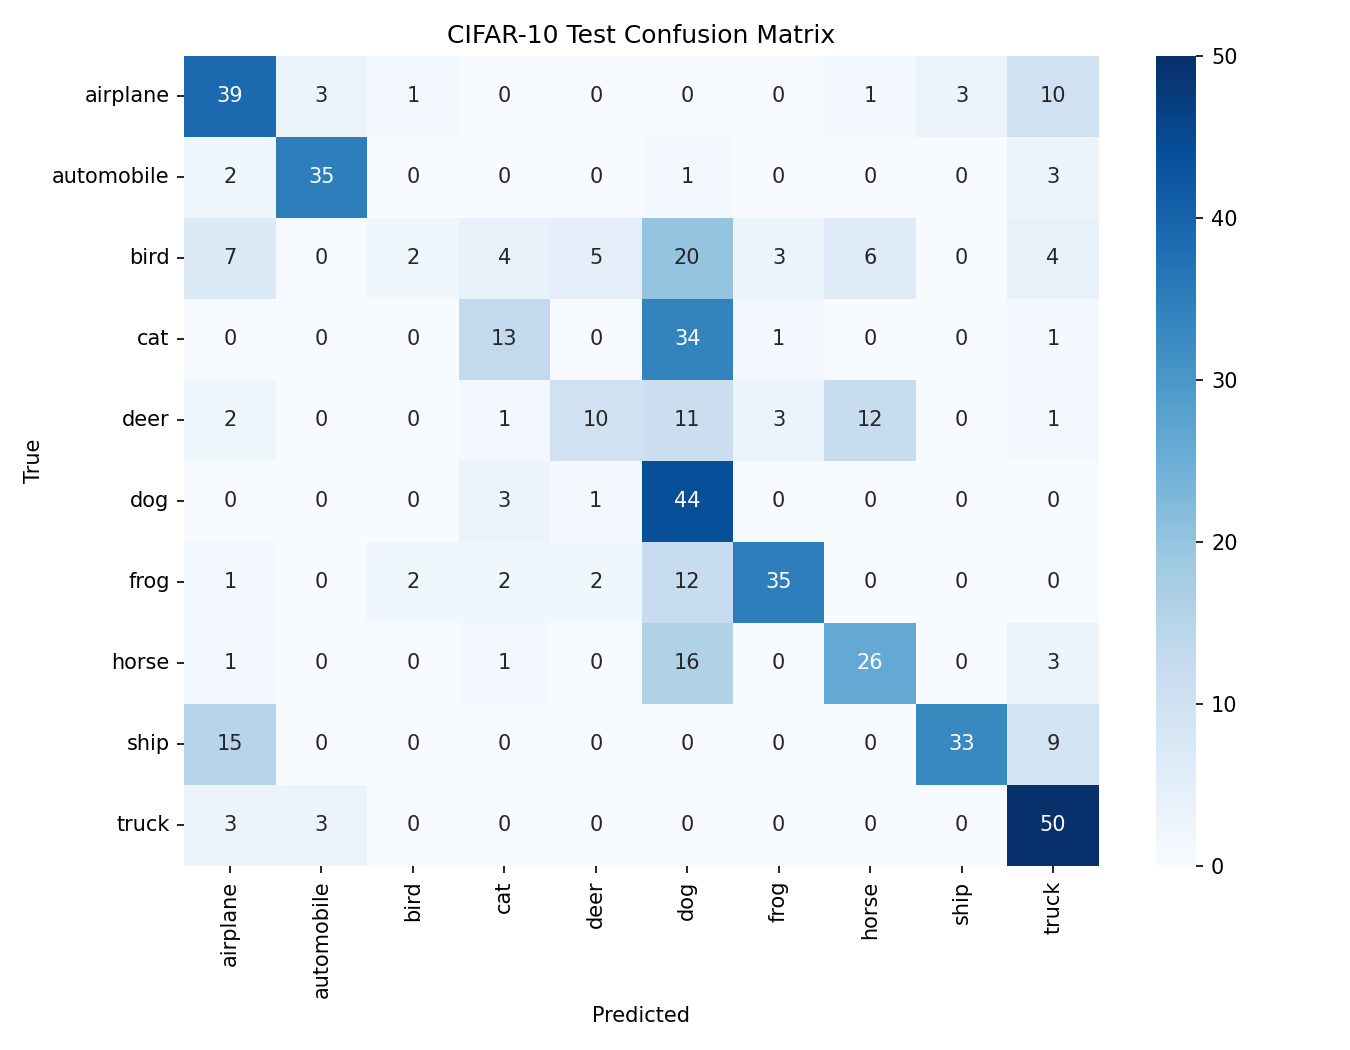
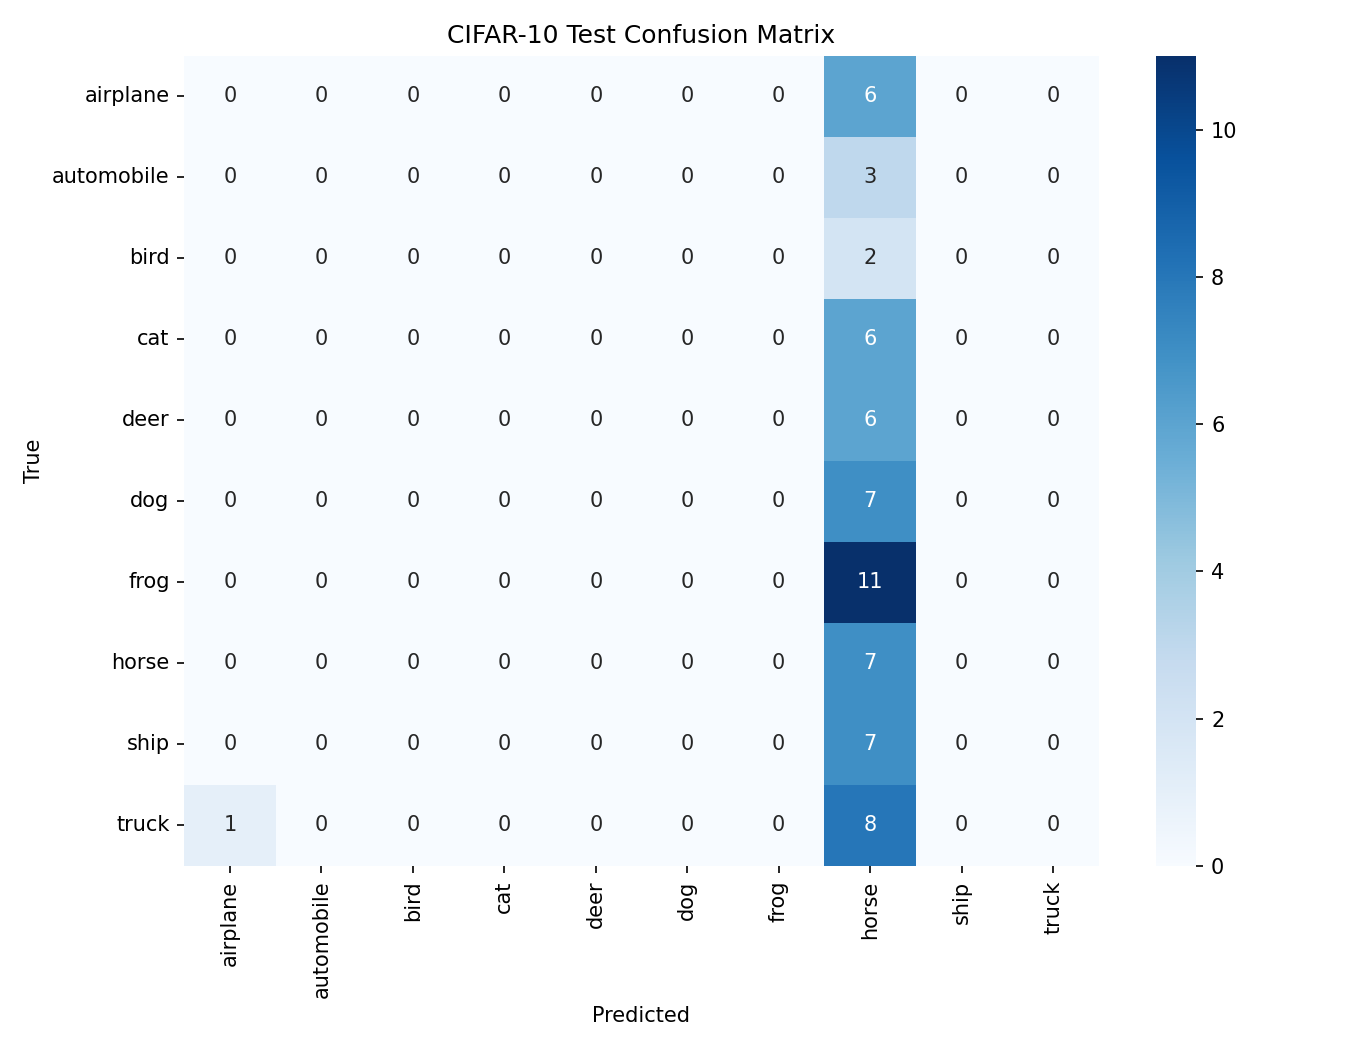
changed out resnet50 to resnet18 for lighter inference on hugging face spaces

diff --git a/src/train.py b/src/train.py
@@ -1,4 +1,6 @@
-# src/train.py
+import sys, os
+sys.path.append(os.path.abspath(os.path.join(os.path.dirname(__file__), '..')))
+
 import torch
 import torch.nn as nn
 import torch.optim as optim
@@ -6,7 +8,7 @@ from torch.utils.data import random_split, DataLoader, Subset
 import torchvision
 from torchvision import models, transforms
 from tqdm import tqdm
-from src.model import get_resnet50_model
+from src.model import get_resnet18_model
 from pathlib import Path
 from multiprocessing import freeze_support
 from sklearn.metrics import classification_report, confusion_matrix
@@ -23,7 +25,7 @@ CLASS_NAMES = [
     "airplane", "automobile", "bird", "cat", "deer",
     "dog", "frog", "horse", "ship", "truck"
 ]
-DEFAULT_MODEL_PATH = Path("models") / "cifar-10-resnet50.pth"
+DEFAULT_MODEL_PATH = Path("models") / "cifar-10-resnet18.pth"
 DEFAULT_ASSETS_DIR = Path("assets")
 
 
@@ -66,15 +68,14 @@ def evaluate(model, dataloader, device):
 # TRAINING FUNCTION
 # -----------------------------------------------------------------------------#
 def train_model(
-    epochs: int = 20,
-    patience: int = 3,
+    epochs: int = 30,
+    patience: int = 5,
     fast_mode: bool = False,
     output_dir: str | Path = ".",
 ):
     """
     Train CIFAR-10 model.
-    - full mode: trains full ResNet50 with augmentations
-    - fast_mode: lightweight ResNet18 subset for CI/CD
+    - full mode: trains full ResNet18 with augmentations
     """
     set_seed(42)
     output_dir = Path(output_dir)
@@ -116,7 +117,7 @@ def train_model(
         patience = 1
         device = "cpu"  # CI usually has no GPU
 
-        model = get_resnet50_model(num_classes=10).to(device)
+        model = get_resnet18_model(num_classes=10).to(device)
 
 
     # -----------------------------#
@@ -153,7 +154,7 @@ def train_model(
         valloader = DataLoader(valset, batch_size=32, shuffle=False, num_workers=8)
         testloader = DataLoader(testset, batch_size=32, shuffle=False, num_workers=8)
 
-        model = get_resnet50_model(num_classes=10).to(device)
+        model = get_resnet18_model(num_classes=10).to(device)
 
     # -----------------------------#
     # OPTIMIZER & TRAINING
@@ -192,7 +193,7 @@ def train_model(
         if val_loss < best_val_loss:
             best_val_loss = val_loss
             patience_counter = 0
-            torch.save(model.state_dict(), model_dir / "cifar_10_resnet50.pth")
+            torch.save(model.state_dict(), model_dir / "cifar_10_resnet18.pth")
         else:
             patience_counter += 1
             if patience_counter >= patience:
@@ -202,7 +203,7 @@ def train_model(
     # -----------------------------#
     # FINAL EVALUATION
     # -----------------------------#
-    model.load_state_dict(torch.load(model_dir / "cifar_10_resnet50.pth", map_location=device))
+    model.load_state_dict(torch.load(model_dir / "cifar_10_resnet18.pth", map_location=device))
     _, test_acc, preds, labels = evaluate(model, testloader, device)
     print(f"\nFinal Test Accuracy: {test_acc*100:.2f}%")
 

diff --git a/api/model_serving.py b/api/model_serving.py
@@ -1,16 +1,14 @@
 import torch
-from src.model import get_resnet50_model
+from src.model import get_resnet18_model
 from src.inference import preprocess_image_from_bytes, predict_topk
 from pathlib import Path
 
-MODEL_PATH = Path("models/cifar_10_resnet50.pth")
-
 class ModelServer:
-    def __init__(self, model_path=MODEL_PATH, device=None):
+    def __init__(self, device=None):
         self.device = device or ("cuda" if torch.cuda.is_available() else "cpu")
-        self.model = get_resnet50_model(num_classes=10)
+        self.model = get_resnet18_model(num_classes=10)
 
-        url = "https://huggingface.co/jseiden/cifar10-resnet50-finetuned/resolve/main/cifar_10_resnet50.pth" # get fine tuned weights from huggingface
+        url = "https://huggingface.co/jseiden/cifar10-resnet18/resolve/main/cifar_10_resnet18.pth" # get fine tuned weights from huggingface
         state_dict = torch.hub.load_state_dict_from_url(url, map_location=self.device)
         self.model.load_state_dict(state_dict)
 

diff --git a/tests/test_model.py b/tests/test_model.py
@@ -3,14 +3,14 @@ sys.path.append(os.path.abspath(os.path.join(os.path.dirname(__file__), '..')))
 
 import torch
 import torch.nn as nn
-from src.model import get_resnet50_model
+from src.model import get_resnet18_model
 
 def test_model_instantiation():
-    model = get_resnet50_model(num_classes=10)
+    model = get_resnet18_model(num_classes=10)
     assert isinstance(model, nn.Module)
     assert model.fc.out_features == 10
 
 def test_all_layers_trainable():
-    model = get_resnet50_model(num_classes=10)
+    model = get_resnet18_model(num_classes=10)
     req = [p.requires_grad for p in model.parameters()]
     assert all(req), "Expected all parameters to be trainable (True)"

diff --git a/src/model.py b/src/model.py
@@ -2,10 +2,10 @@ import torch
 import torch.nn as nn
 import torchvision.models as models
 import os
-os.environ['TORCH_HOME'] = '/tmp/torch'  # or './cache' for relative to repo
+os.environ['TORCH_HOME'] = '/tmp/torch'
 
-def get_resnet50_model(num_classes=10):
-    model = models.resnet50(weights=models.ResNet50_Weights.IMAGENET1K_V1)
+def get_resnet18_model(num_classes=10):
+    model = models.resnet18(weights=None)
     for p in model.parameters():
         p.requires_grad = True
     in_features = model.fc.in_features

diff --git a/tests/test_train.py b/tests/test_train.py
@@ -18,7 +18,7 @@ def trained_model(tmp_path_factory):
 def test_artifacts_created(trained_model):
     tmp_path = trained_model["tmp_path"]
 
-    model_path = tmp_path / "models" / "cifar_10_resnet50.pth"
+    model_path = tmp_path / "models" / "cifar_10_resnet18.pth"
     report_path = tmp_path / "assets" / "test_report.json"
     cm_path = tmp_path / "assets" / "test_confusion_matrix.png"
 
